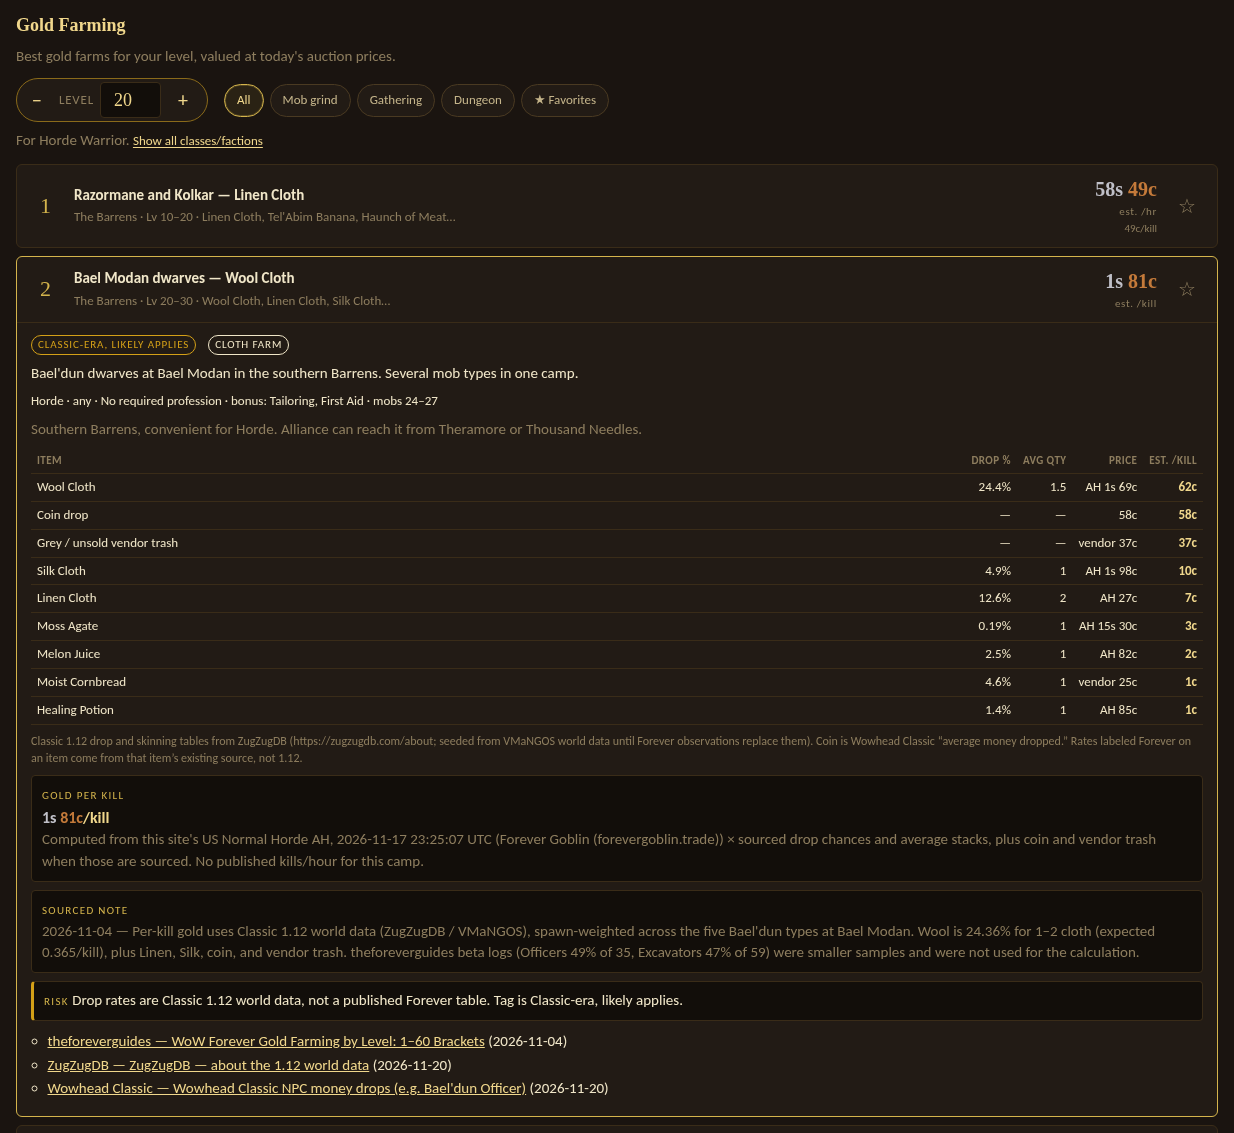
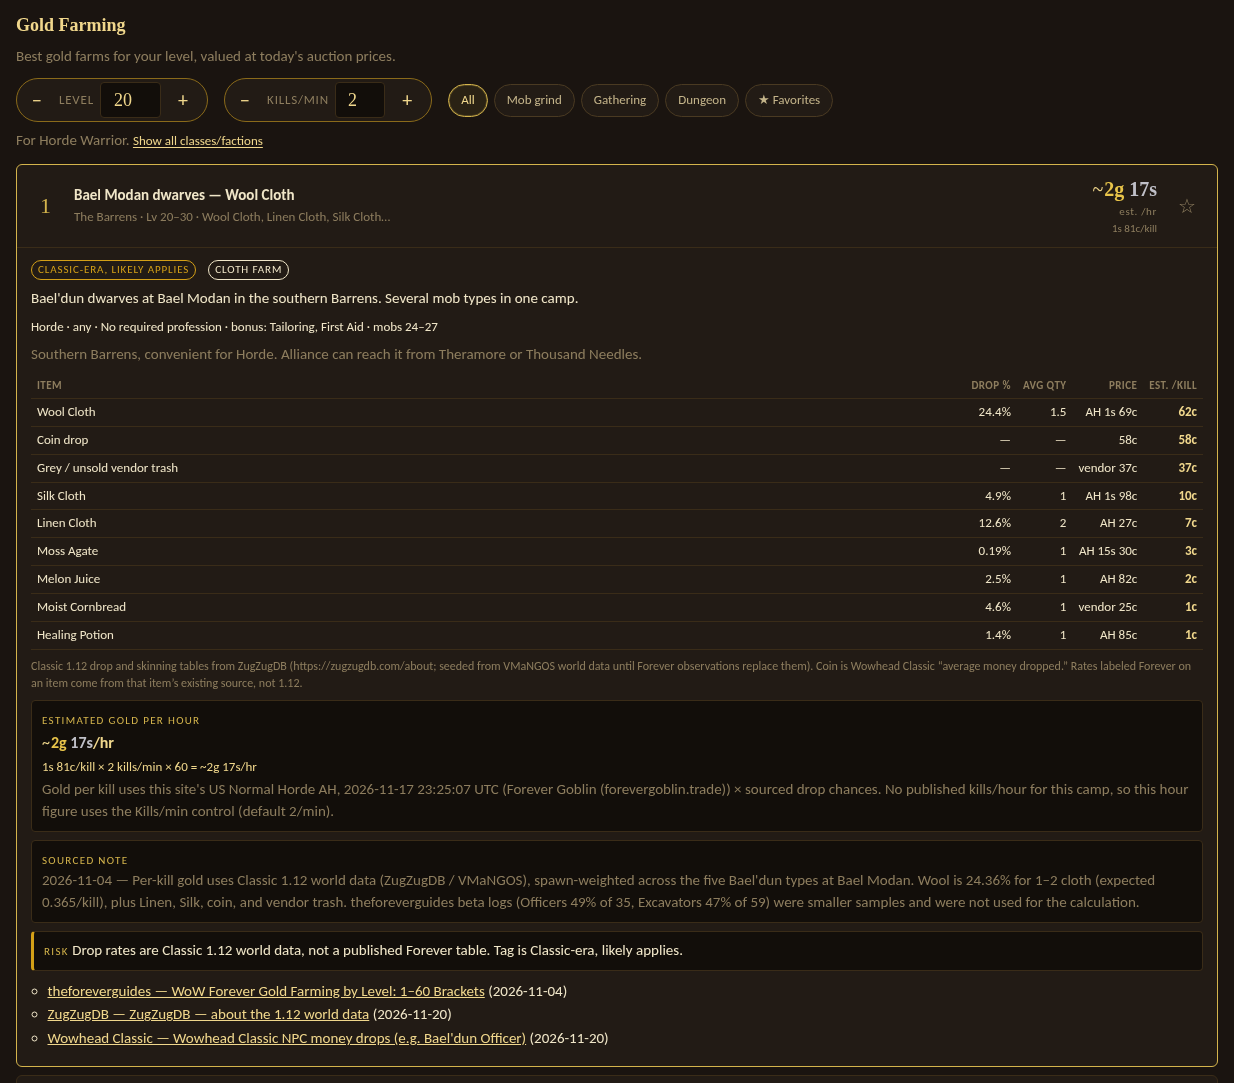
Gold farming: estimated gold/hour from kills-per-minute

diff --git a/js/gold-farms.js b/js/gold-farms.js
@@ -1,5 +1,7 @@
 /* Gold Farming section. Reads window.GOLD_FARMS and the same PRICE_DATA
- * feed as the Profession guide. Does not invent drop rates or gold/hour. */
+ * feed as the Profession guide. Does not invent drop rates. Gold/hour without
+ * a published kill rate is estimated from gold/kill × a user-adjustable
+ * kills-per-minute assumption (default 2/min) and is labeled as an estimate. */
 (function () {
   var TYPE_LABEL = {
     mob: "Mob grind",
@@ -15,6 +17,10 @@
     { id: "instance", label: "Dungeon" }
   ];
   var TOP_N = 5;
+  var DEFAULT_KPM = 2;
+  var KPM_MIN = 0.5;
+  var KPM_MAX = 6;
+  var KPM_STEP = 0.5;
   var bound = false;
   var helpers = {};
   var expandedId = null;
@@ -74,7 +80,8 @@
       viewLevel: null,
       typeFilter: "all",
       favsOnly: false,
-      showAllGroups: false
+      showAllGroups: false,
+      killsPerMin: DEFAULT_KPM
     };
   }
   function prefs() {
@@ -123,6 +130,37 @@
       p.followLevel = false;
       p.viewLevel = n;
     }
+  }
+
+  function clampKpm(n) {
+    n = parseFloat(n);
+    if (isNaN(n)) n = DEFAULT_KPM;
+    n = Math.round(n / KPM_STEP) * KPM_STEP;
+    return Math.max(KPM_MIN, Math.min(KPM_MAX, n));
+  }
+  function killsPerMin() {
+    return clampKpm(prefs().killsPerMin);
+  }
+  function setKillsPerMin(n) {
+    prefs().killsPerMin = clampKpm(n);
+  }
+  function kpmLabel(n) {
+    return (Math.round(n * 10) / 10) % 1 === 0 ? String(Math.round(n)) : String(Math.round(n * 10) / 10);
+  }
+  // Global slider value, scaled by an optional sourced per-spot override.
+  function killsPerMinFor(spot) {
+    var user = killsPerMin();
+    var base = spot && spot.estimatedKillsPerMin != null ? Number(spot.estimatedKillsPerMin) : DEFAULT_KPM;
+    if (isNaN(base) || base <= 0) base = DEFAULT_KPM;
+    return Math.round(base * (user / DEFAULT_KPM) * 10) / 10;
+  }
+  function estimatedHourly(spot, live) {
+    live = live || liveOf(spot);
+    if (live.perKill == null) return null;
+    if (live.perHour != null) return null;
+    if (sourcedHourly(spot) != null) return null;
+    var kpm = killsPerMinFor(spot);
+    return { copper: Math.round(live.perKill * kpm * 60), kpm: kpm };
   }
 
   function priceOf(id) {
@@ -223,6 +261,10 @@
     }
     if (sourcedHr != null) {
       return { copper: sourcedHr, unit: "/hr", kind: "sourced", live: live };
+    }
+    var est = estimatedHourly(spot, live);
+    if (est) {
+      return { copper: est.copper, unit: "/hr", kind: "estimated", live: live, kpm: est.kpm };
     }
     if (live.perKill != null) {
       return { copper: live.perKill, unit: "/kill", kind: "live", live: live };
@@ -353,6 +395,14 @@
         '<button type="button" class="gf-step" id="gfLvlUp" aria-label="Higher level">+</button>' +
         reset +
       "</div>" +
+      '<div class="gf-level gf-kpm" role="group" aria-label="Kills per minute">' +
+        '<button type="button" class="gf-step" id="gfKpmDown" aria-label="Fewer kills per minute">−</button>' +
+        '<label class="gf-level-label">Kills/min ' +
+          '<input type="number" id="gfKpm" min="' + KPM_MIN + '" max="' + KPM_MAX +
+            '" step="' + KPM_STEP + '" value="' + kpmLabel(killsPerMin()) + '">' +
+        "</label>" +
+        '<button type="button" class="gf-step" id="gfKpmUp" aria-label="More kills per minute">+</button>' +
+      "</div>" +
       '<div class="gf-pills" role="group" aria-label="Farm type">' + pills + "</div>";
   }
 
@@ -382,8 +432,10 @@
       "<p>" + escapeHtml(meta.disclaimer ||
         "Gold per hour moves with the Auction House and with how fast you can pull. Sourced figures are snapshots, not promises. Live values are computed from current AH prices and the drop rates a source listed.") +
       "</p>" +
-      "<p>The big number is gold per hour when a source published a kills/hour figure and this site can price the drops. If there is no kill rate, the big number is gold per kill — chance × average stack × current AH price, plus a sourced coin drop and grey vendor value when those exist. " +
-      escapeHtml(priceStamp()) + ". Nothing here is invented.</p>" +
+      "<p>The big number is gold per hour. When a guide published a kills/hour figure, that rate is used and the row keeps its usual look. When there is gold per kill but no published kill rate, this site estimates gold/hour as gold/kill × kills/min × 60, marked with a ~ and an est. tag. " +
+      escapeHtml(priceStamp()) + ".</p>" +
+      "<p>The default is " + kpmLabel(DEFAULT_KPM) + " kills per minute (" + (DEFAULT_KPM * 60) +
+        "/hour) for a typical solo, at-level, single-pull grind. That matches ByteTavern’s “two kills a minute” linen-farm assumption and sits in the 100–150 kills/hour range Classic guides often use (Conquest Capped’s mid-level farms assume 100/hour). Pack, AoE, and slow elite camps will differ — use the Kills/min control, which is saved with your character. It does not change rows that already have a sourced kill rate. Nothing here invents drop rates.</p>" +
       "<p>Bug exploits, duplication, and other play that breaks Blizzard's terms of use are not listed.</p>";
     el.open = open;
   }
@@ -396,13 +448,22 @@
       if (!t) return;
       var step = t.closest && t.closest(".gf-step");
       if (step) {
-        var cur = viewLevel();
-        var next = step.id === "gfLvlDown" ? cur - 1 : cur + 1;
-        setViewLevel(next, false);
-        persist();
-        showAllRows = false;
-        refresh();
-        return;
+        if (step.id === "gfKpmDown" || step.id === "gfKpmUp") {
+          var nextK = killsPerMin() + (step.id === "gfKpmDown" ? -KPM_STEP : KPM_STEP);
+          setKillsPerMin(nextK);
+          persist();
+          refresh();
+          return;
+        }
+        if (step.id === "gfLvlDown" || step.id === "gfLvlUp") {
+          var cur = viewLevel();
+          var next = step.id === "gfLvlDown" ? cur - 1 : cur + 1;
+          setViewLevel(next, false);
+          persist();
+          showAllRows = false;
+          refresh();
+          return;
+        }
       }
       if (t.id === "gfUseMyLevel") {
         setViewLevel(charLevel(), true);
@@ -460,10 +521,16 @@
       }
     });
     root.addEventListener("change", function (e) {
-      if (e.target && e.target.id === "gfLevel") {
+      if (!e.target) return;
+      if (e.target.id === "gfLevel") {
         setViewLevel(e.target.value, false);
         persist();
         showAllRows = false;
+        refresh();
+      }
+      if (e.target.id === "gfKpm") {
+        setKillsPerMin(e.target.value);
+        persist();
         refresh();
       }
     });
@@ -552,10 +619,22 @@
         '<div class="muted">Computed from this site\'s ' + escapeHtml(priceStamp()) +
         " × sourced drop chances, at the source\'s " + live.kph + " kills/hour assumption.</div></div>");
     } else if (live.perKill != null) {
-      parts.push('<div class="gf-live"><span class="kicker">Gold per kill</span><strong>' +
-        goldShortHtml(live.perKill) + "/kill</strong>" +
-        '<div class="muted">Computed from this site\'s ' + escapeHtml(priceStamp()) +
-        " × sourced drop chances and average stacks, plus coin and vendor trash when those are sourced. No published kills/hour for this camp.</div></div>");
+      var est = estimatedHourly(spot, live);
+      if (est) {
+        parts.push('<div class="gf-live"><span class="kicker">Estimated gold per hour</span><strong>' +
+          '<span class="gf-approx">~</span>' + goldShortHtml(est.copper) + "/hr</strong>" +
+          '<div class="gf-formula">' + goldText(live.perKill, { compact: true }) + "/kill × " +
+            kpmLabel(est.kpm) + " kills/min × 60 = ~" + goldText(est.copper, { compact: true }) + "/hr</div>" +
+          '<div class="muted">Gold per kill uses this site\'s ' + escapeHtml(priceStamp()) +
+          " × sourced drop chances. No published kills/hour for this camp, so this hour figure uses the Kills/min control" +
+          (Math.abs(est.kpm - DEFAULT_KPM) < 1e-6 ? " (default " + kpmLabel(DEFAULT_KPM) + "/min)." : ".") +
+          "</div></div>");
+      } else {
+        parts.push('<div class="gf-live"><span class="kicker">Gold per kill</span><strong>' +
+          goldShortHtml(live.perKill) + "/kill</strong>" +
+          '<div class="muted">Computed from this site\'s ' + escapeHtml(priceStamp()) +
+          " × sourced drop chances and average stacks, plus coin and vendor trash when those are sourced.</div></div>");
+      }
     } else if (live.priced.length) {
       parts.push('<div class="gf-live"><span class="kicker">Live AH prices</span><strong>' +
         live.priced.length + " item" + (live.priced.length === 1 ? "" : "s") + " priced</strong>" +
@@ -629,7 +708,9 @@
     var lootLine = names.length ? names.slice(0, 3).join(", ") + (names.length > 3 ? "…" : "") : "See details for loot";
     var goldInner;
     if (h.copper != null) {
-      goldInner = "<strong>" + goldShortHtml(h.copper) + "</strong><span class=\"gf-est\">est. " + h.unit + "</span>";
+      var approx = h.kind === "estimated" ? '<span class="gf-approx">~</span>' : "";
+      var tag = h.kind === "estimated" ? "est. /hr" : ("est. " + h.unit);
+      goldInner = "<strong>" + approx + goldShortHtml(h.copper) + "</strong><span class=\"gf-est\">" + tag + "</span>";
       if (h.unit === "/hr" && h.live && h.live.perKill != null) {
         goldInner += '<span class="gf-kill-sub">' + goldText(h.live.perKill, { compact: true }) + "/kill</span>";
       }
@@ -733,6 +814,9 @@
     liveOf: liveOf,
     filtered: filtered,
     viewLevel: viewLevel,
-    headline: headline
+    headline: headline,
+    killsPerMin: killsPerMin,
+    estimatedHourly: estimatedHourly,
+    DEFAULT_KPM: DEFAULT_KPM
   };
 })();

diff --git a/index.html b/index.html
@@ -4,7 +4,7 @@
   <meta charset="UTF-8">
   <meta name="viewport" content="width=device-width, initial-scale=1">
   <title>Forever Tracker — Classic Era companion</title>
-  <link rel="stylesheet" href="css/style.css?v=20261120c">
+  <link rel="stylesheet" href="css/style.css?v=20261120d">
 </head>
 <body>
   <div class="app">
@@ -247,16 +247,16 @@
   </div>
   <div class="toast" id="toast" hidden></div>
 
-  <script src="js/data.js?v=20261120c"></script>
-  <script src="js/items.js?v=20261120c"></script>
-  <script src="js/talents.js?v=20261120c"></script>
-  <script src="js/leveling-data.js?v=20261120c"></script>
-  <script src="js/app.js?v=20261120c"></script>
-  <script src="js/cloud-save.js?v=20261120c"></script>
-  <script src="js/professions-data.js?v=20261120c"></script>
-  <script src="data/prices.js?v=20261120c"></script>
-  <script src="js/professions.js?v=20261120c"></script>
-  <script src="js/gold-farms-data.js?v=20261120c"></script>
-  <script src="js/gold-farms.js?v=20261120c"></script>
+  <script src="js/data.js?v=20261120d"></script>
+  <script src="js/items.js?v=20261120d"></script>
+  <script src="js/talents.js?v=20261120d"></script>
+  <script src="js/leveling-data.js?v=20261120d"></script>
+  <script src="js/app.js?v=20261120d"></script>
+  <script src="js/cloud-save.js?v=20261120d"></script>
+  <script src="js/professions-data.js?v=20261120d"></script>
+  <script src="data/prices.js?v=20261120d"></script>
+  <script src="js/professions.js?v=20261120d"></script>
+  <script src="js/gold-farms-data.js?v=20261120d"></script>
+  <script src="js/gold-farms.js?v=20261120d"></script>
 </body>
 </html>

diff --git a/js/gold-farms-data.js b/js/gold-farms-data.js
@@ -50,7 +50,7 @@
 window.GOLD_FARMS_META = {
   built: "2026-11-20",
   priceHouse: "US Normal Horde (house 114), same feed as the Profession guide",
-  disclaimer: "Gold per hour and gold per kill move with the Auction House. Per-kill figures use sourced drop chances × average stack size × this site’s current US Normal Horde AH market value, plus a sourced coin drop and grey vendor value when those exist. Gold/hour is shown when a source also published a kills/hour figure. Sourced snapshots are not promises. Nothing here is invented."
+  disclaimer: "Gold per hour and gold per kill move with the Auction House and with how fast you pull. Per-kill figures use sourced drop chances × average stack size × this site’s current US Normal Horde AH market value, plus a sourced coin drop and grey vendor value when those exist. When a source also published a kills/hour figure, that rate is used. Otherwise gold/hour is estimated as gold/kill × kills/min × 60, using a default of 2 kills/min (120/hour) for a typical solo at-level single-pull grind — the same “two kills a minute” ByteTavern uses, and in the 100–150/hour range Classic guides often cite (Conquest Capped assumes 100/hour). That estimate is marked with a ~ and does not change sourced rows. Sourced snapshots are not promises. Nothing here invents drop rates."
 };
 window.GOLD_FARMS = [
 

diff --git a/css/style.css b/css/style.css
@@ -914,6 +914,10 @@ table.data tfoot th { text-align: left; }
 .gf-break-note { font-size: 12px; color: var(--muted); margin: 6px 0 0; }
 .gf-kill-line { font-size: 13px; color: var(--gold-2); margin: 2px 0 4px; }
 .gf-kill-sub { display: block; font-size: 11px; color: var(--muted); margin-top: 1px; letter-spacing: 0; text-transform: none; }
+.gf-approx { font-weight: 500; margin-right: 1px; }
+.gf-formula { font-size: 13px; color: var(--gold-2); margin: 4px 0 2px; }
+.gf-kpm .gf-level-label input { width: 2.8em; }
+
 
 @media (max-width: 720px) {
   .gf-row-main {
